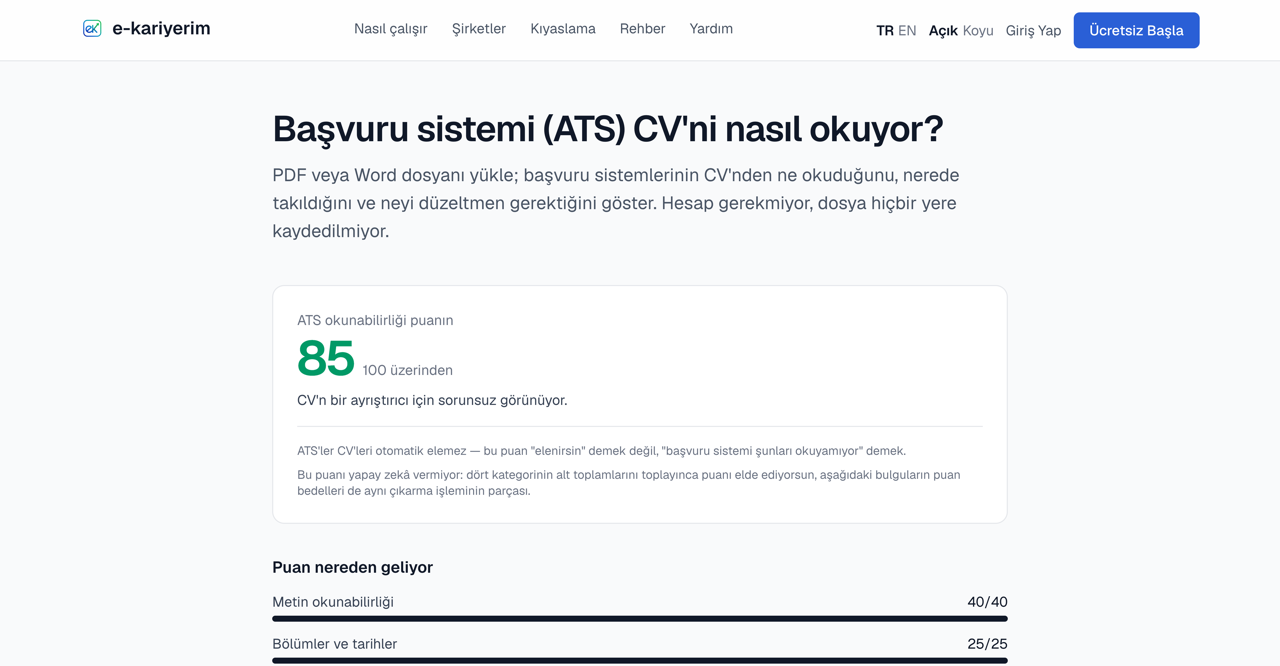
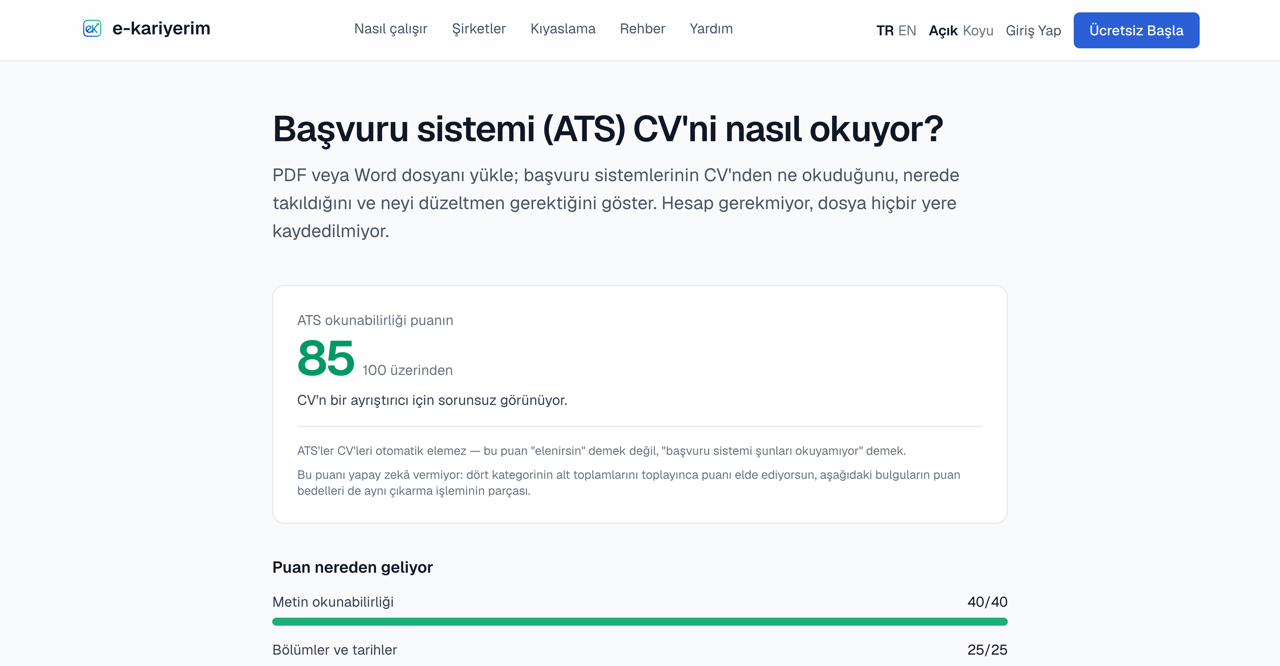
Give the CV-scan category bars a band colour, a staggered grow-in and a count-up
The four bars under the score were flat 6 px gray-900 lines: no colour, no
motion, and nothing tying them to the fix list's severity language. Five
options were compared on a design canvas in light and dark; variant A won
because it keeps the one rule the bars exist for — the bar is the same number
again, width = subtotal over weight — and fits every place the component is
rendered without a layout change (result screen, /cv panel, shared score page,
landing mock).

- lib/cvScan/categoryBars.ts: band from the headline's thresholds applied to
  the category ratio (no rounding), fill percent clamped to the track, and the
  timing (900 ms grow, 140 ms stagger, ease-out cubic, count-up value).
- hooks/useElapsedMs.ts: rAF-driven elapsed time; reports the end value on the
  server and under prefers-reduced-motion, so static HTML carries the real
  subtotals rather than zeros.
- CvScanResultCards: 8 px bar, fill in --good/--warn/--crit with the track in
  the same ramp's wash, per-row animation-delay, count-up next to the bar; the
  list is keyed by the result so a rescan restarts the motion.
- globals.css: .aa-bar-grow (transform-based, `both`, off under reduced motion).
- help/screenshots/cv-scan-result.png re-shot from the same 85/100 scene.

Web unit 726/726 (new categoryBars.test.ts), lint + tsc clean. Verified in the
browser on the local stack: a real DOCX scan (count-up sampled from the DOM,
aa-bar-grow present on the fill), the shared score page 76-30-22-15-9 showing
[…]

Changed region(s): [[0.1875, 0.9009, 0.8125, 1.0]]

diff --git a/web/src/components/cvScan/CvScanResultCards.tsx b/web/src/components/cvScan/CvScanResultCards.tsx
@@ -2,7 +2,15 @@
 
 import type { ReactNode } from "react";
 import { useTranslations } from "next-intl";
-import { scoreBand } from "@/lib/cvScan/findings";
+import { scoreBand, type ScoreBand } from "@/lib/cvScan/findings";
+import {
+  barDelayMs,
+  barsTotalMs,
+  categoryBand,
+  categoryFillPercent,
+  countUpValue,
+} from "@/lib/cvScan/categoryBars";
+import { useElapsedMs } from "@/hooks/useElapsedMs";
 import type { CvScanCategoryScore } from "@/types/api";
 
 /**
@@ -21,6 +29,15 @@ const BAND_COLOR = {
   fair: "text-amber-600 dark:text-amber-400",
   poor: "text-red-600 dark:text-red-400",
 } as const;
+
+/** Fill and track per band, from the theme's status tokens (globals.css): the track is the
+ *  lighter step of the fill's own ramp, so the state reads across the whole bar and not only
+ *  from the filled part. */
+const BAR_COLOR: Record<ScoreBand, { fill: string; track: string }> = {
+  good: { fill: "bg-good", track: "bg-good-wash" },
+  fair: { fill: "bg-warn", track: "bg-warn-wash" },
+  poor: { fill: "bg-crit", track: "bg-crit-wash" },
+};
 
 /** `children` is the footnote area under the band sentence — the real screen puts the ATS
  *  correction there; the landing demo leaves it empty. */
@@ -44,28 +61,47 @@ export function CvScanScoreCard({ score, children }: { score: number; children?:
 export function CvScanCategoryBars({ categories }: { categories: CvScanCategoryScore[] }) {
   const t = useTranslations("cvScan");
 
+  // One key per result: a new scan re-runs the count-up and, through the <ul>'s key, restarts the
+  // bars' CSS animation, which otherwise only plays on mount.
+  const resultKey = categories.map((c) => `${c.category}:${c.score}/${c.weight}`).join(",");
+  const elapsedMs = useElapsedMs(barsTotalMs(categories.length), resultKey);
+
   return (
     <section className="flex flex-col gap-3">
       <h2 className="text-base font-semibold text-gray-900 dark:text-gray-100">{t("result.categoriesTitle")}</h2>
-      <ul className="flex flex-col gap-3">
-        {categories.map((category) => (
-          <li key={category.category} className="flex flex-col gap-1">
-            <div className="flex items-baseline justify-between gap-3 text-sm">
-              <span className="text-gray-700 dark:text-gray-300">{t(`categories.${category.category}`)}</span>
-              <span className="tabular-nums text-gray-900 dark:text-gray-100">
-                {t("result.categoryScore", { score: category.score, weight: category.weight })}
-              </span>
-            </div>
-            {/* The bar is the same number again, not a different one: width is the subtotal over
-                the category's own weight. */}
-            <div className="h-1.5 w-full rounded-full bg-gray-200 dark:bg-gray-800">
-              <div
-                className="h-1.5 rounded-full bg-gray-900 dark:bg-gray-100"
-                style={{ width: `${(category.score / category.weight) * 100}%` }}
-              />
-            </div>
-          </li>
-        ))}
+      <ul key={resultKey} className="flex flex-col gap-3.5">
+        {categories.map((category, index) => {
+          const band = categoryBand(category.score, category.weight);
+
+          return (
+            <li key={category.category} className="flex flex-col gap-1.5">
+              <div className="flex items-baseline justify-between gap-3 text-sm">
+                <span className="text-gray-700 dark:text-gray-300">{t(`categories.${category.category}`)}</span>
+                {/* The count-up shows frames of the response's own subtotal on its way up; the
+                    figure it stops on is the one the page adds up (lib/cvScan/categoryBars.ts). */}
+                <span className="tabular-nums text-gray-900 dark:text-gray-100">
+                  {t("result.categoryScore", {
+                    score: countUpValue(category.score, index, elapsedMs),
+                    weight: category.weight,
+                  })}
+                </span>
+              </div>
+              {/* The bar is the same number again, not a different one: width is the subtotal over
+                  the category's own weight, and the colour is the headline's band applied to that
+                  ratio. It grows in from the left (aa-bar-grow), one bar after another; the
+                  animation is off under prefers-reduced-motion, like the count-up. */}
+              <div className={`h-2 w-full rounded-full ${BAR_COLOR[band].track}`}>
+                <div
+                  className={`aa-bar-grow h-2 rounded-full ${BAR_COLOR[band].fill}`}
+                  style={{
+                    width: `${categoryFillPercent(category.score, category.weight)}%`,
+                    animationDelay: `${barDelayMs(index)}ms`,
+                  }}
+                />
+              </div>
+            </li>
+          );
+        })}
       </ul>
     </section>
   );

diff --git a/web/src/lib/cvScan/categoryBars.test.ts b/web/src/lib/cvScan/categoryBars.test.ts
@@ -1,0 +1,96 @@
+import { describe, expect, it } from "vitest";
+import {
+  BAR_GROW_MS,
+  BAR_STAGGER_MS,
+  barDelayMs,
+  barProgress,
+  barsTotalMs,
+  categoryBand,
+  categoryFillPercent,
+  countUpValue,
+  easeOutCubic,
+} from "./categoryBars";
+
+describe("categoryBand", () => {
+  it("applies the headline's thresholds to the category's own ratio", () => {
+    // 32/40 is 80%: the same line that makes an 80 headline "good".
+    expect(categoryBand(32, 40)).toBe("good");
+    expect(categoryBand(31, 40)).toBe("fair");
+    expect(categoryBand(22, 40)).toBe("fair");
+    expect(categoryBand(21, 40)).toBe("poor");
+    expect(categoryBand(15, 15)).toBe("good");
+    expect(categoryBand(0, 20)).toBe("poor");
+  });
+
+  it("does not round a category up into the next band", () => {
+    // 19/24 is 79.2%: rounding to 80 first would paint it good.
+    expect(categoryBand(19, 24)).toBe("fair");
+  });
+});
+
+describe("categoryFillPercent", () => {
+  it("is the subtotal over the weight, so the bar is the number again", () => {
+    expect(categoryFillPercent(32, 40)).toBe(80);
+    expect(categoryFillPercent(15, 15)).toBe(100);
+    expect(categoryFillPercent(0, 20)).toBe(0);
+  });
+
+  it("never draws past the track or below it, whatever the response says", () => {
+    expect(categoryFillPercent(50, 40)).toBe(100);
+    expect(categoryFillPercent(-3, 40)).toBe(0);
+    expect(categoryFillPercent(5, 0)).toBe(0);
+  });
+});
+
+describe("timing", () => {
+  it("staggers bars and ends when the last one has finished growing", () => {
+    expect(barDelayMs(0)).toBe(0);
+    expect(barDelayMs(3)).toBe(3 * BAR_STAGGER_MS);
+    expect(barsTotalMs(4)).toBe(3 * BAR_STAGGER_MS + BAR_GROW_MS);
+    expect(barsTotalMs(0)).toBe(0);
+  });
+
+  it("eases out: fast at the start, settled at the end, clamped outside 0..1", () => {
+    expect(easeOutCubic(0)).toBe(0);
+    expect(easeOutCubic(1)).toBe(1);
+    expect(easeOutCubic(0.5)).toBeGreaterThan(0.5);
+    expect(easeOutCubic(-1)).toBe(0);
+    expect(easeOutCubic(2)).toBe(1);
+  });
+
+  it("holds a bar at zero until its turn and at one after its grow time", () => {
+    expect(barProgress(2, 2 * BAR_STAGGER_MS - 1)).toBe(0);
+    expect(barProgress(2, 2 * BAR_STAGGER_MS)).toBe(0);
+    expect(barProgress(2, 2 * BAR_STAGGER_MS + BAR_GROW_MS)).toBe(1);
+    expect(barProgress(2, 2 * BAR_STAGGER_MS + BAR_GROW_MS / 2)).toBeGreaterThan(0.5);
+  });
+});
+
+describe("countUpValue", () => {
+  it("starts at zero and lands exactly on the response's subtotal", () => {
+    expect(countUpValue(32, 0, 0)).toBe(0);
+    expect(countUpValue(32, 0, BAR_GROW_MS)).toBe(32);
+    expect(countUpValue(32, 0, BAR_GROW_MS * 10)).toBe(32);
+  });
+
+  it("is monotonic on the way up and prints whole points only", () => {
+    let previous = -1;
+    for (let ms = 0; ms <= BAR_GROW_MS; ms += 50) {
+      const value = countUpValue(22, 0, ms);
+      expect(Number.isInteger(value)).toBe(true);
+      expect(value).toBeGreaterThanOrEqual(previous);
+      previous = value;
+    }
+  });
+
+  it("shows every bar's final figure once the whole sequence is over", () => {
+    const total = barsTotalMs(4);
+    expect([32, 22, 15, 9].map((score, index) => countUpValue(score, index, total))).toEqual([32, 22, 15, 9]);
+  });
+
+  it("shows the final figures at the elapsed value the server renders with", () => {
+    // useElapsedMs reports barsTotalMs on the server and under reduced motion: the static HTML
+    // must carry the real subtotals, not zeros.
+    expect(countUpValue(9, 3, barsTotalMs(4))).toBe(9);
+  });
+});

diff --git a/web/src/lib/cvScan/categoryBars.ts b/web/src/lib/cvScan/categoryBars.ts
@@ -1,0 +1,55 @@
+import { scoreBand, type ScoreBand } from "@/lib/cvScan/findings";
+
+/**
+ * The arithmetic behind the category bars (2026-09-19): which band a subtotal falls in, how wide
+ * its bar is, and what the number next to it reads while the bar is still growing. Kept out of
+ * the component for the same reason as findings.ts — it is tested as numbers, not as a tree.
+ *
+ * The rule that carries over unchanged: **the bar is the same number again.** Its width is the
+ * subtotal over the category's own weight, the colour is the band that ratio falls in (the
+ * headline's thresholds, applied to the category), and the count-up only decides which frame of
+ * that number is showing — never a different one. Once the motion is over, or when the reader
+ * has asked for none, every value here equals the response.
+ */
+
+/** How long one bar takes to reach its width, and how far apart consecutive bars start. */
+export const BAR_GROW_MS = 900;
+export const BAR_STAGGER_MS = 140;
+
+/** The headline's bands, applied to one category: 32/40 is "good" because 80/100 would be. */
+export function categoryBand(score: number, weight: number): ScoreBand {
+  return scoreBand(categoryFillPercent(score, weight));
+}
+
+/** Bar width in percent, clamped so a malformed response cannot draw past the track. */
+export function categoryFillPercent(score: number, weight: number): number {
+  if (weight <= 0) return 0;
+  return Math.max(0, Math.min(100, (score / weight) * 100));
+}
+
+export function barDelayMs(index: number): number {
+  return index * BAR_STAGGER_MS;
+}
+
+/** When the last bar has stopped: the whole sequence is over at this many ms. */
+export function barsTotalMs(count: number): number {
+  return count === 0 ? 0 : barDelayMs(count - 1) + BAR_GROW_MS;
+}
+
+/** The same curve the CSS animation uses (`cubic-bezier(0.2, 0.8, 0.2, 1)` is close to it), so the
+ *  number and its bar arrive together rather than the number lagging behind. */
+export function easeOutCubic(t: number): number {
+  const clamped = Math.max(0, Math.min(1, t));
+  return 1 - Math.pow(1 - clamped, 3);
+}
+
+/** How far along bar `index` is at `elapsedMs`, 0 before its turn and 1 once it has finished. */
+export function barProgress(index: number, elapsedMs: number): number {
+  return easeOutCubic((elapsedMs - barDelayMs(index)) / BAR_GROW_MS);
+}
+
+/** The subtotal to print next to bar `index` at `elapsedMs`: rounds to whole points because the
+ *  response only ever has whole points, and lands exactly on `score` at the end. */
+export function countUpValue(score: number, index: number, elapsedMs: number): number {
+  return Math.round(score * barProgress(index, elapsedMs));
+}

diff --git a/web/src/hooks/useElapsedMs.ts b/web/src/hooks/useElapsedMs.ts
@@ -1,0 +1,34 @@
+"use client";
+
+import { useEffect, useState } from "react";
+
+/**
+ * Milliseconds since `key` last changed, as state that advances every animation frame until
+ * `totalMs` and then stops. Drives the count-up next to the CV-scan category bars.
+ *
+ * Two things it deliberately does: the server (and the first client render) reports `totalMs`,
+ * so static HTML — the shared-score page, a crawler's view of it — already carries the final
+ * figures rather than a row of zeros; and under `prefers-reduced-motion: reduce` it stays there,
+ * matching the CSS side, which switches the bars' animation off under the same query.
+ */
+export function useElapsedMs(totalMs: number, key: string): number {
+  const [elapsed, setElapsed] = useState(totalMs);
+
+  useEffect(() => {
+    // Every update is made from a frame callback, never from the effect body itself, so a change
+    // of key mid-run lands on the next frame like any other tick.
+    const still = window.matchMedia("(prefers-reduced-motion: reduce)").matches || totalMs <= 0;
+    const start = performance.now();
+
+    const tick = (now: number) => {
+      const next = still ? totalMs : Math.min(totalMs, now - start);
+      setElapsed(next);
+      if (next < totalMs) frame = requestAnimationFrame(tick);
+    };
+    let frame = requestAnimationFrame(tick);
+
+    return () => cancelAnimationFrame(frame);
+  }, [totalMs, key]);
+
+  return elapsed;
+}

diff --git a/web/src/app/globals.css b/web/src/app/globals.css
@@ -102,8 +102,23 @@
   animation: aa-shimmer 1.6s linear infinite;
 }
 
+/* CV-scan category bar growing in from the left — see CvScanResultCards. Transform rather than
+   width so the fill is painted once at its final size; `both` keeps it at scaleX(0) through its
+   per-bar delay. The timing pairs with BAR_GROW_MS and easeOutCubic in lib/cvScan/categoryBars.ts,
+   which drive the number next to the bar. */
+@keyframes aa-bar-grow {
+  from { transform: scaleX(0); }
+  to { transform: scaleX(1); }
+}
+
+.aa-bar-grow {
+  transform-origin: left center;
+  animation: aa-bar-grow 900ms cubic-bezier(0.2, 0.8, 0.2, 1) both;
+}
+
 @media (prefers-reduced-motion: reduce) {
-  .aa-skeleton {
+  .aa-skeleton,
+  .aa-bar-grow {
     animation: none;
   }
 }

diff --git a/DECISIONS.md b/DECISIONS.md
@@ -8081,3 +8081,30 @@ belirtilmedi" satırı; Katkılarım'da eksik-dönem kartı; düzenlemede boş d
 seç", 2021–2019 → "Bitiş yılı başlangıçtan önce olamaz", 2019–2023 kaydedildi; Beta'ya eski
 çalışan 2010–2012 / 4.500 ₺ girildi → önceki dönemlerde, medyan 95.000 ₺ (3 güncel kayıt) ona
 bakmadı.
+
+## CV tarama kategori barları: bant rengi + sıralı büyüme + sayaç — DECIDED (2026-09-19)
+
+**Karar.** Sonuç ekranındaki dört kategori barı düz siyah/gri 6 px çizgi olmaktan çıktı. Beş
+seçenek tasarım canvas'ında (https://claude.ai/artifact/Lg4VNU6hLWDxrKAmVVAbAg — A bant rengi,
+B on dilim, C marka gradyanı + parıltı, D tek toplam barı, E dört halka) açık/koyu temada
+karşılaştırıldı; **A** seçildi. Gerekçe: "bar aynı sayının tekrarı" kuralı bozulmuyor (genişlik
+hâlâ alt toplam/ağırlık), renk düzeltme listesiyle aynı dili konuşuyor, dört kullanım yerinde de
+(sonuç ekranı, /cv paneli, paylaşılan puan sayfası, landing mock'u) yerleşim değişmiyor. C'nin
+gradyan-üzerinde-konum okuması ve D'nin paylaşılan sayfada kapladığı yer nedeniyle elendi.
+
+**Ne yapıldı.** `lib/cvScan/categoryBars.ts`: `categoryBand` (başlık eşikleri kategori oranına
+uygulanır: ≥%80 iyi, ≥%55 orta, altı zayıf — yuvarlama yok), `categoryFillPercent` (0–100'e
+kırpılır), zamanlama (`BAR_GROW_MS` 900, `BAR_STAGGER_MS` 140, `easeOutCubic`, `countUpValue`).
+`hooks/useElapsedMs`: rAF ile ilerleyen süre; sunucuda ve `prefers-reduced-motion: reduce`
+altında doğrudan son değeri verir, yani statik HTML sıfır değil gerçek alt toplamları taşır.
+`CvScanResultCards`: 8 px bar, dolgu `bg-good/warn/crit`, ray aynı rampanın wash tonu,
+`.aa-bar-grow` (globals.css, `transform: scaleX`, `both`, reduced-motion'da kapalı), satır başına
+`animation-delay`; `<ul>`'un key'i sonuç anahtarı, yeni tarama animasyonu yeniden başlatır.
+Büyük puan sabit kalır. OG kartı bar çizmediği için dokunulmadı.
+
+**Testler / doğrulama.** Web birim 726 (yeni `categoryBars.test.ts`: bant eşikleri, kırpma,
+zamanlama, sayaç monotonluğu ve sunucu değerinde son rakam) + lint + tsc. Tarayıcıda yerel yığın:
+gerçek DOCX taraması (88/100) — sayaç 0'dan sıralı yükselip yanıt değerlerinde durdu,
+`aa-bar-grow` 900 ms animasyonu DOM'da doğrulandı; paylaşılan puan sayfası `76-30-22-15-9` üç
+bandı gösterdi; koyu tema; landing mock'u. `help/screenshots/cv-scan-result.png` aynı sahneden
+(85/100, imzasız) CDP reçetesiyle yeniden çekildi.
